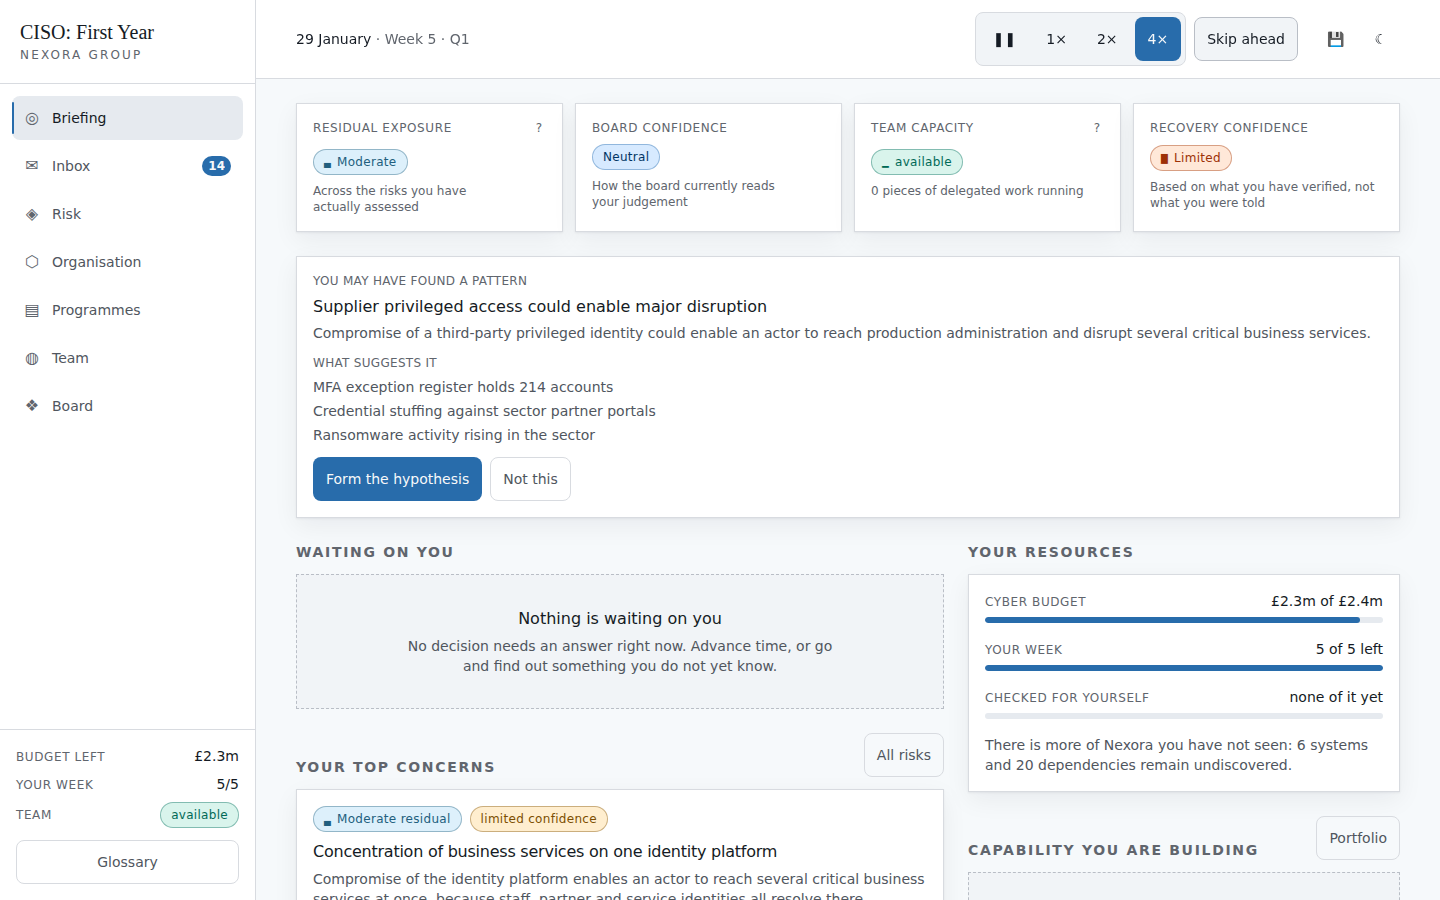
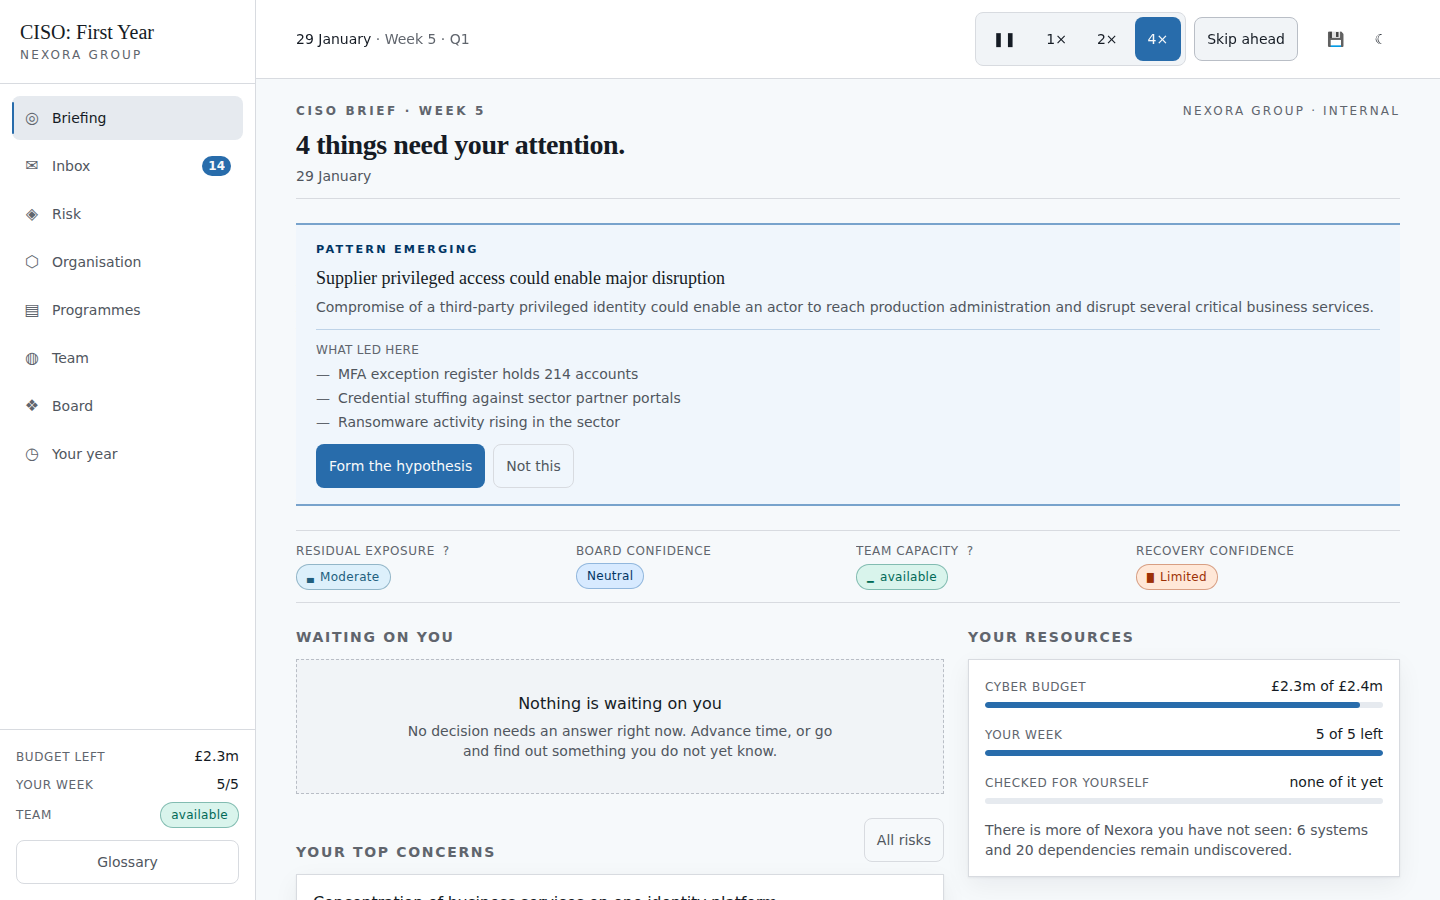
Close the debt the last three passes created
Two things, both mine rather than found.

The player guide had gone wrong, not just stale. It told a new player to look
for "the four bands across the top", which the visual pass moved into a strip
under a masthead. It quoted "You may have found a pattern", which is now
"Pattern emerging". It described unverified systems as carrying a badge, when
they are drawn dashed and resolve as you check them. And it had no section at
all for Your year, a screen with its own destination and keyboard shortcut.
Nine of its ten screenshots predated the changes. Text corrected, pictures
regenerated. The board-paper capture failed again — the one the spec's own
comment says does not reliably reach its screen — and that image is left as it
was, which is honest because nothing in this pass touched the Board screen.

Six of the fourteen release-gate conditions are now asserted rather than
remembered. HOSTING.md said CI covered five and the remainder were "checked
before release", which meant nobody checked them: they all hold by construction
and would only break by accident. tests/content/release-gate.test.ts reads them
off the source — no network primitive anywhere in src (steps 7, 8, 14), no
account (4), no store outside the browser (5), no environment variable beyond
Vite's build-time booleans (9).

The reason the Functions tab shows no invocations is not restraint, it is that
the application has no way to make a request. A test holds it that way now, so
[…]

diff --git a/tests/content/release-gate.test.ts b/tests/content/release-gate.test.ts
@@ -1,0 +1,97 @@
+import { describe, expect, it } from 'vitest'
+import { readdir, readFile } from 'node:fs/promises'
+
+/**
+ * The release gate, asserted rather than remembered.
+ *
+ * `docs/HOSTING.md` lists fourteen conditions a build must meet. CI already
+ * covers five of them; the rest were marked "checked before release", which in
+ * practice meant nobody checked them, because they are all properties that hold
+ * by construction today and would only ever break by accident — somebody adding
+ * analytics, an account system, or a key to the bundle.
+ *
+ * Those are exactly the changes that should fail a build rather than be noticed
+ * later, so the ones that can be read off the source are read off the source
+ * here. The three that genuinely need a deployment (steps 12-14: Vercel builds,
+ * the suite passes against the deployed URL, and the Functions tab shows no
+ * invocations) cannot be checked from a test and stay in the document.
+ */
+
+async function sourceFiles(): Promise<{ path: string; code: string }[]> {
+  const root = new URL('../../src/', import.meta.url)
+  const files: URL[] = []
+  const walk = async (dir: URL) => {
+    for (const entry of await readdir(dir, { withFileTypes: true })) {
+      const child = new URL(entry.name + (entry.isDirectory() ? '/' : ''), dir)
+      if (entry.isDirectory()) await walk(child)
+      else if (/\.(ts|tsx)$/.test(entry.name)) files.push(child)
+    }
+  }
+  await walk(root)
+  return Promise.all(
+    files.map(async (file) => ({
+      path: file.pathname.replace(/.*\/src\//, 'src/'),
+      // Comments discuss the rules; only code can break them.
+      code: (await readFile(file, 'utf8'))
+        .split('\n')
+        .filter((line) => {
+          const trimmed = line.trimStart()
+          return !trimmed.startsWith('*') && !trimmed.startsWith('//') && !trimmed.startsWith('/*')
+        })
+        .join('\n'),
+    })),
+  )
+}
+
+describe('release gate', () => {
+  it('makes no network request, so gameplay cannot produce compute (steps 7, 8, 14)', async () => {
+    const files = await sourceFiles()
+    expect(files.length).toBeGreaterThan(40)
+
+    // Step 14 asks that the Functions tab show no invocations after a full
+    // playthrough. The strongest form of that is an application that has no way
+    // to call anything: no request primitive reaches the bundle at all.
+    const forbidden = ['fetch(', 'XMLHttpRequest', 'sendBeacon', 'new WebSocket', 'EventSource(']
+    for (const { path, code } of files) {
+      for (const primitive of forbidden) {
+        expect(code, `${path} would make a network request (${primitive})`).not.toContain(primitive)
+      }
+    }
+  })
+
+  it('asks nobody to sign in (step 4)', async () => {
+    const files = await sourceFiles()
+    // A new player starts by pressing a button. Anything resembling an account
+    // is a change to the product, not a refactor, and should say so loudly.
+    const forbidden = ['signIn', 'signOut', 'oauth', 'OAuth', 'Auth0', 'getSession', 'currentUser']
+    for (const { path, code } of files) {
+      for (const term of forbidden) {
+        expect(code, `${path} looks like it introduces accounts`).not.toContain(term)
+      }
+    }
+  })
+
+  it("keeps the campaign on the player's own device (step 5)", async () => {
+    const files = await sourceFiles()
+    // IndexedDB via idb, and nothing else. A remote store would also be caught
+    // by the network test above, but this names the actual requirement.
+    const persistence = files.filter((file) => /from '(idb|@supabase|firebase)/.test(file.code))
+    expect(persistence.length).toBeGreaterThan(0)
+    for (const { path, code } of persistence) {
+      expect(code, `${path} persists somewhere other than the browser`).not.toMatch(/@supabase|firebase/)
+    }
+  })
+
+  it('reads no environment variable that could carry a secret (step 9)', async () => {
+    const files = await sourceFiles()
+    // `import.meta.env.DEV` and `.PROD` are build-time booleans Vite inlines and
+    // are fine. Anything else read off the environment ends up in the bundle as
+    // a literal, which is how a key ships to every player.
+    for (const { path, code } of files) {
+      for (const match of code.matchAll(/import\.meta\.env\??\.([A-Za-z_]+)/g)) {
+        expect(['DEV', 'PROD', 'MODE', 'BASE_URL', 'SSR']).toContain(match[1])
+      }
+      expect(code, `${path} reads process.env, which Vite inlines into the bundle`).not.toContain('process.env.')
+    }
+  })
+})

diff --git a/docs/PLAYER_GUIDE.md b/docs/PLAYER_GUIDE.md
@@ -62,19 +62,28 @@ is sent anywhere.
 
 ![The Briefing](images/02-briefing.png)
 
-This is where every day starts. Five things are worth finding:
+This is where every day starts, and it is written as a brief rather than a
+dashboard. Six things are worth finding:
 
-**The four bands across the top.** Residual exposure, board confidence, team
-capacity and recovery confidence. They are words — *Moderate*, *Neutral*,
-*Limited* — never numbers. That is deliberate: a real CISO argues from judgement,
-not from a score, and a number would invite you to optimise it. The `?` opens a
-plain-language explanation.
+**The masthead and the headline.** `CISO BRIEF · WEEK 1` at the top, and under
+it a single line counting what wants you today — *"Two things need your
+attention."* If it says nothing is waiting, nothing is: you can run the clock.
 
-**Waiting on you.** Anything that needs an answer. Ignore it long enough and the
-organisation decides without you, which is recorded and counts against you at
-the end of the year.
+**Waiting on you.** Anything that needs an answer, immediately under the
+headline. Ignore it long enough and the organisation decides without you, which
+is recorded and counts against you at the end of the year.
 
-**Your top concerns.** The risks you have actually assessed, worst first.
+**The four standing readings**, in a strip below the headline: residual
+exposure, board confidence, team capacity and recovery confidence. They are
+words — *Moderate*, *Neutral*, *Limited* — never numbers. That is deliberate: a
+real CISO argues from judgement, not from a score, and a number would invite you
+to optimise it. They are deliberately quieter than the things above them,
+because they are the state of the organisation rather than a list of things to
+do. The `?` opens a plain-language explanation.
+
+**Your top concerns.** The risks you have actually assessed, worst first. Each
+one leads with the risk itself and carries its rating underneath — read the
+sentence, not the colour.
 
 **Your resources** (right). Three bars:
 - **Cyber budget** — money for the year. It does not refill.
@@ -181,8 +190,11 @@ new players most often skip. Do not skip it.
 Every system, supplier, network and data set, and what depends on what. Use
 **List** rather than **Graph** at first — it is far easier to read.
 
-Notice the **Taken on trust** badges. Those are things you know exist because
-you were told, not because anyone checked. The difference between *seen* and
+Notice which rows are **drawn with a dashed outline and set back**: those are
+things you know exist because you were told, not because anyone checked. They
+are badged **Taken on trust** as well. On day one nearly the whole estate looks
+like that, and it resolves into solid rows as you verify things — the picture
+visibly sharpens as the year goes on, which is the point. The difference between *seen* and
 *verified* is the game's central idea, and the annual review scores it.
 
 ---
@@ -192,8 +204,9 @@ you were told, not because anyone checked. The difference between *seen* and
 ![A pattern offer](images/07-pattern.png)
 
 Sometimes the evidence you are holding adds up to something. When it does, the
-game says so: **"You may have found a pattern"**, with the proposition and the
-evidence behind it.
+game says so. **Pattern emerging** is ruled off from everything around it, with
+the proposition set large and the evidence that led there listed underneath —
+it is meant to read like an analyst's inference, not a notification.
 
 It stops there deliberately. Forming the hypothesis costs attention, and **"Not
 this"** is a real answer that sticks. The game will point out what it noticed; it
@@ -246,6 +259,20 @@ safe answer. Both have consequences, and both are remembered.
 Note what the bar shows — *containment*, *recovery*, *affected services* — and
 what it does not: the attack path. You only ever see what your own people have
 actually told you.
+
+---
+
+## Watching your own year
+
+Press `Y`, or pick **Your year** in the menu, for the whole campaign as one
+364-day strip: the decisions you took and the ones that lapsed, programmes
+running and finished, enquiries, board papers, assumptions that stopped holding,
+and any incidents.
+
+It is worth opening well before December. It is the quickest way to see whether
+you have actually been doing anything — a year with one busy lane and five empty
+ones is telling you something while there is still time to change it. **Read the
+year as a list** underneath gives every mark with its date.
 
 ---
 

diff --git a/CLAUDE.md b/CLAUDE.md
@@ -162,6 +162,39 @@ simulated player actually did before concluding the game is at fault.
 
 ### Fixed
 
+- **The player guide described a screen that no longer existed, and the release
+  gate was a list nobody checked.** Two pieces of debt, both created by the
+  three passes above rather than found in them.
+
+  **The guide had gone wrong, not just stale.** It told a new player to look for
+  "the four bands across the top", which the visual pass had moved into a strip
+  under a masthead; it quoted "You may have found a pattern", which is now
+  `Pattern emerging`; it described unverified systems as carrying a badge, when
+  they are drawn dashed and resolve as you check them; and it had no section at
+  all for `Your year`, a screen with its own destination and keyboard shortcut.
+  Nine of its ten screenshots predated the changes. The text is corrected and
+  the pictures regenerated with `pnpm guide:shots`. **The board-paper capture
+  failed again** — it is the one the spec's own comment says does not reliably
+  reach its screen — and that image is left as it was, which is honest here
+  because nothing in this pass touched the Board screen.
+
+  **Six of the fourteen release-gate conditions are now asserted rather than
+  remembered.** `docs/HOSTING.md` said CI covered five and "the remainder are
+  checked before release", which in practice meant nobody checked them: they all
+  hold by construction and would only break by accident. `tests/content/release-gate.test.ts`
+  reads them off the source — no network primitive anywhere in `src/` (steps 7,
+  8 and 14), no account (4), no store outside the browser (5), and no
+  environment variable beyond Vite's build-time booleans (9). Mutation-checked
+  three ways: adding an analytics `fetch`, a `VITE_API_KEY` read and a `signIn`
+  each fail a named test.
+
+  Worth stating plainly: the reason the Vercel Functions tab shows no
+  invocations is not restraint, it is that the application has no way to make a
+  request. That property is now held by a test, so an accidental analytics call
+  fails `pnpm check` rather than turning up on a bill. Steps 12, 13 and 14's
+  confirmation still need a deployment and a person; nothing in the repository
+  can check those and no test pretends to.
+
 - **The interface read as an enterprise dashboard rather than a command
   centre.** A visual review graded the game 8.5/10 — structure strong, identity
   and tension weak — and named five changes worth more than the other ten. All

diff --git a/docs/HOSTING.md b/docs/HOSTING.md
@@ -91,7 +91,22 @@ A build is not release-ready unless all of the following hold:
     The Functions tab should show no invocations at all: normal gameplay makes
     no request after the app shell and content have loaded.
 
-CI covers 1–3, 6 and 11 on every push; the remainder are checked before release.
+**Who checks what.** CI covers 1–3, 6 and 11 on every push. Steps 4, 5, 7, 8, 9
+and 14 are asserted by `tests/content/release-gate.test.ts`, which reads them
+off the source rather than trusting that somebody remembered: it fails the build
+if any application file gains a network primitive, an account, a remote store or
+an environment variable that is not one of Vite's build-time booleans. Step 10
+is `pnpm size` against the budget below.
+
+That leaves **12, 13 and 14's confirmation** — the three that genuinely need a
+deployment to exist. Nothing in the repository can check those, and no test
+should pretend to. They are done by a person, against the live URL, before a
+release is called done.
+
+Step 14 deserves a note: the reason the Functions tab shows nothing is not
+restraint, it is that the application has no way to make a request at all. The
+test above holds it that way, so an accidental analytics call fails `pnpm check`
+rather than appearing on a bill.
 
 Treat any accidental server dependency in the MVP as an architectural
 regression, not a convenience.
